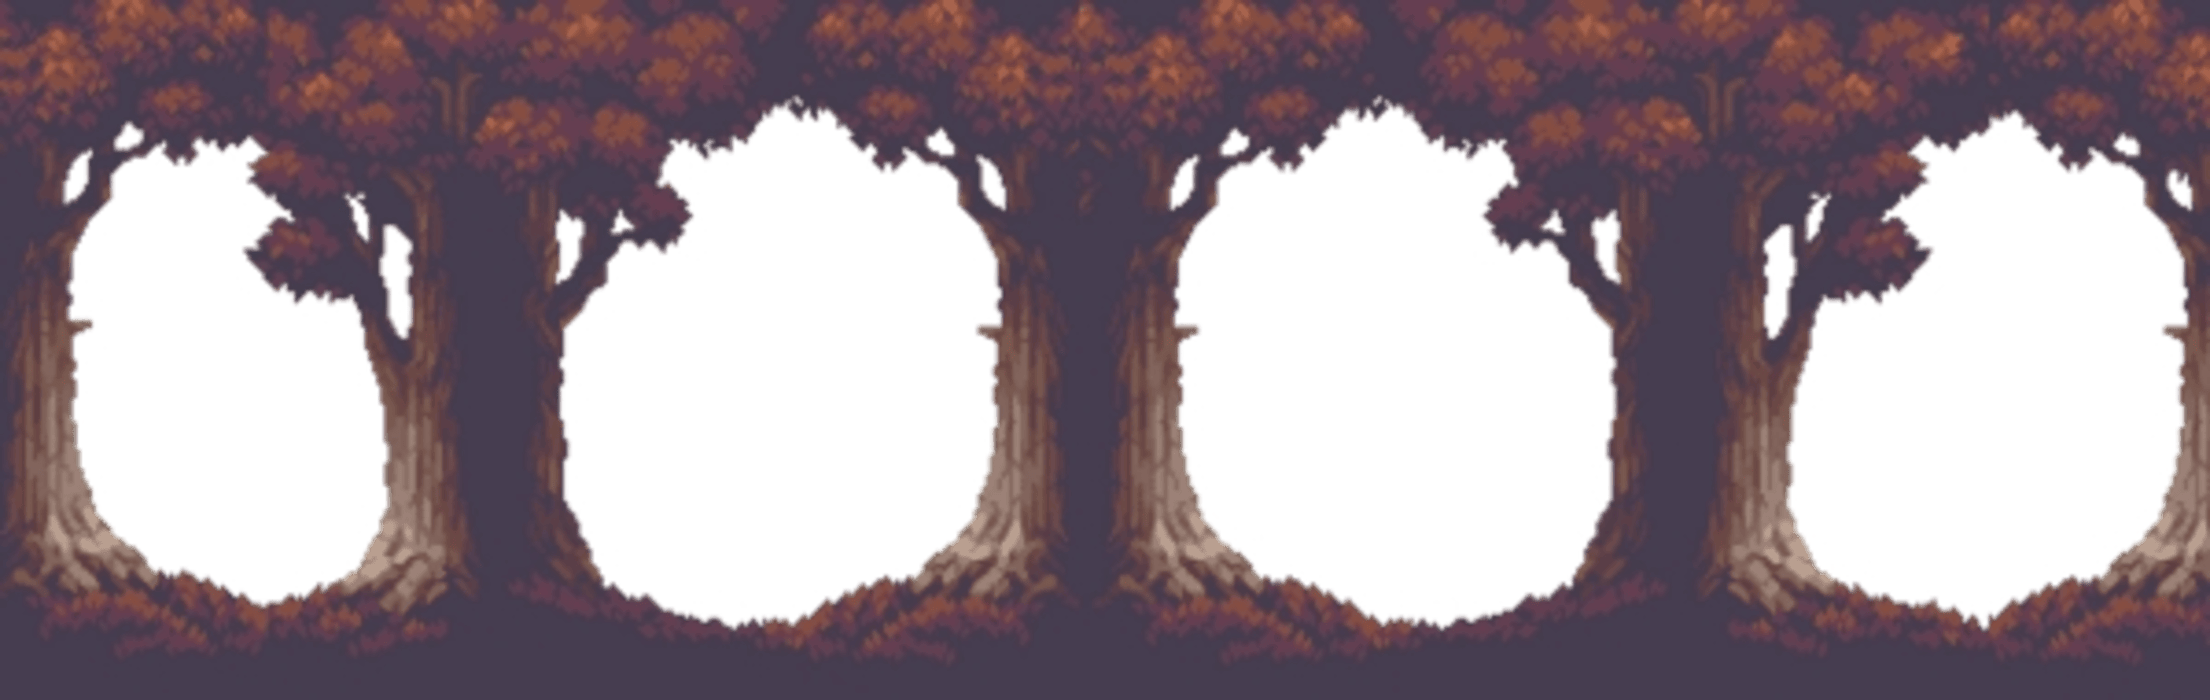
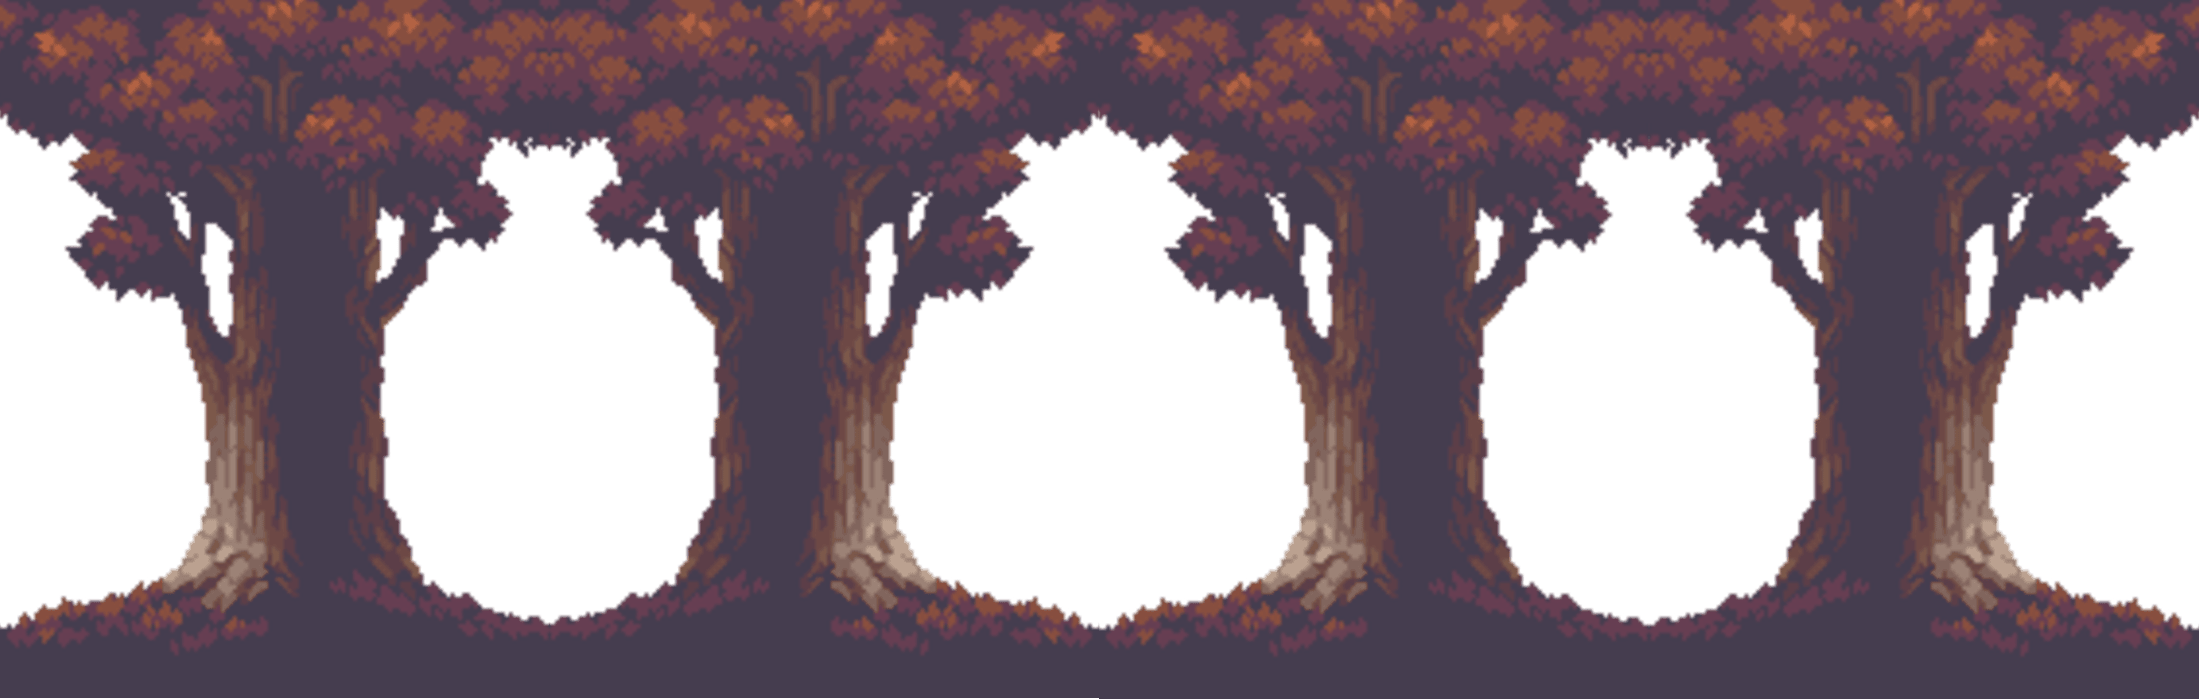
Fully function movements of background left and right

diff --git a/src/gui/Map.java b/src/gui/Map.java
@@ -14,7 +14,7 @@ public class Map {
         this.background1 = new Picture(0, 0, 1100, 700, "res/background/background1.png");
         this.background2 = new Picture(0, 0, 1100, 700, "res/background/background2.png");
         this.background3 = new Picture(0, 0, 2200, 700, "res/background/background3.png");
-        this.ground = new Picture(0, 590, 2177, 114, "res/background/ground.png");
+        this.ground = new Picture(0, 590, 2200, 114, "res/background/ground.png");
     }
 
     public void draw(Graphics g) {
@@ -29,7 +29,7 @@ public class Map {
         if (this.background3.getX() < -1100) {
             this.background3.changeCords(0, this.background3.getY());
         }
-        if (this.ground.getX() < -1000) {
+        if (this.ground.getX() < -1100) {
             this.ground.changeCords(0, this.ground.getY());
         }
         this.background3.changeCords(this.background3.getX() - 1, this.background3.getY());
